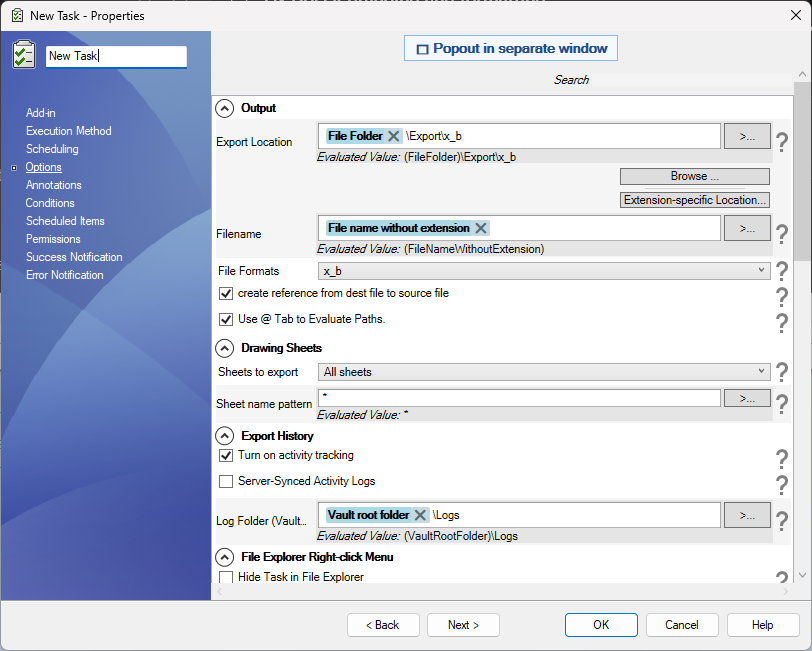
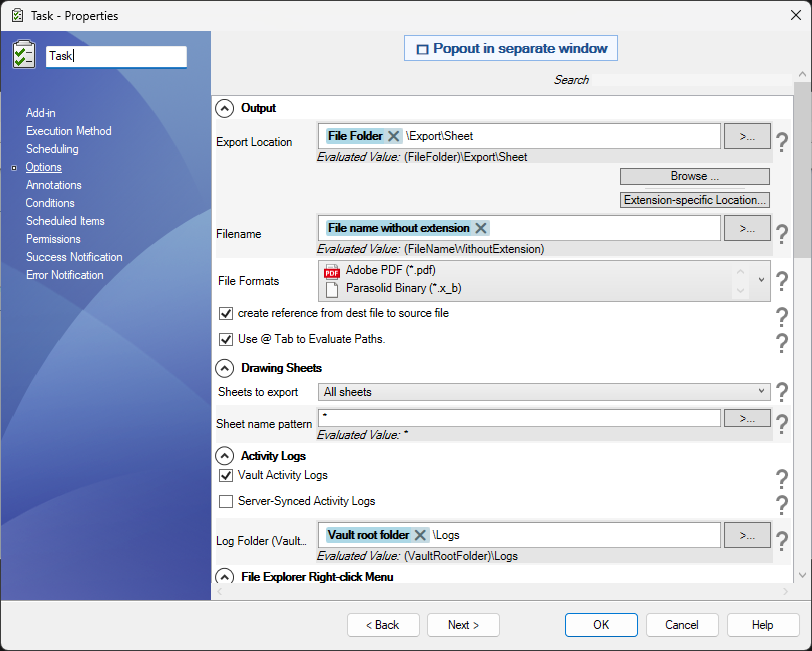
Update supported formats and screenshots

diff --git a/docs/src/pdmpublisher.html b/docs/src/pdmpublisher.html
@@ -118,30 +118,17 @@
 </div>
 <p>PDMPublisher is a SOLIDWORKS PDM task add-in that lets you save your SOLIDWORKS files using advanced filters and provides power capabilities to place custom properties/datacard, BOM quantities on PDFs and merge them.</p>
 <h2 id="supported-extensions">Supported extensions</h2>
-<p>With the PDM task version of PDMPublisher, you can export to the following extensions:</p>
+<p>With the PDM task version of PDMPublisher, you can export to the following formats:</p>
 <ul>
-<li><code>pdf</code>:
-<ul>
-<li>SOLIDWORKS drawings as <code>pdf</code>.</li>
-<li>SOLIDWORKS parts and assemblies as 3D <code>pdf</code></li>
-<li>Office documents (Word and Excel) as <code>pdf</code></li>
+<li>PDF and MBD: <code>pdf</code>, <code>_3dpdf</code></li>
+<li>Drawings: <code>dwg</code>, <code>dxf</code></li>
+<li>eDrawings: <code>eprt</code>, <code>easm</code>, <code>edrw</code></li>
+<li>CAD and interchange: <code>step</code>, <code>igs</code>, <code>stl</code>, <code>x_t</code>, <code>x_b</code>, <code>sat</code>, <code>3dxml</code>, <code>3mf</code>, <code>ifc</code>, <code>u3d</code>, <code>wrl</code>, <code>vda</code>, <code>cgr</code>, <code>hcg</code>, <code>hsf</code></li>
+<li>Web and images: <code>html</code>, <code>xaml</code>, <code>jpg</code>, <code>tif</code>, <code>bmp</code>, <code>ai</code>, <code>psd</code></li>
 </ul>
-</li>
-<li><code>dxf</code> (You can also export the flat pattern of sheet metal parts)</li>
-<li><code>dwg</code></li>
-<li><code>step</code></li>
-<li><code>iges</code></li>
-<li><code>x_t</code></li>
-<li><code>x_b</code></li>
-<li><code>stl</code></li>
-<li><code>u3d</code></li>
-<li><code>eprt</code></li>
-<li><code>edrw</code></li>
-<li><code>easm</code></li>
-<li><code>ifc</code></li>
-<li><code>3mf</code></li>
-<li><code>html</code> (eDrawings Professional required)</li>
-</ul>
+<p>The <code>pdf</code> format exports SOLIDWORKS drawings and converts Microsoft Word and Excel documents to PDF. The <code>_3dpdf</code> selection exports SOLIDWORKS parts and assemblies as 3D PDF.</p>
+<p>Drawing files can be exported as <code>dxf</code>. To create manufacturing-ready flat patterns from sheet metal parts, use <a href="pdmpublisher-options/export-sheet-metal-flat-pattern-dxf.html">Export Sheet Metal Parts to 1:1 Flat Pattern DXF</a>.</p>
+<p>The <code>html</code> format requires eDrawings Professional. See <a href="pdmpublisher-options/file-formats.html">File Formats</a> for format names, source-file behavior, screenshots, and version-specific notes.</p>
 <h2 id="input-files">Input files</h2>
 <p>PDMPublisher can process individual SOLIDWORKS part files (<code>.sldprt</code>), drawing files (<code>.slddrw</code>), and assemblies (<code>.sldasm</code>) along with all their references. This ensures that all necessary components are correctly handled during processing, whether you're converting a single file or an entire assembly structure.</p>
 <ul>

diff --git a/docs/src/introduction.html b/docs/src/introduction.html
@@ -140,31 +140,17 @@
 <li>Best when users need an interactive publishing workflow or when using SOLIDWORKS without PDM Professional</li>
 </ul>
 <h3 id="supported-extensions">Supported extensions</h3>
-<p>With PDMPublisher, you can export to the following extensions:</p>
+<p>With PDMPublisher, you can export to the following formats:</p>
 <ul>
-<li><code>pdf</code>:
-<ul>
-<li>SOLIDWORKS drawings as <code>pdf</code>.</li>
-<li>SOLIDWORKS parts and assemblies as 3D <code>pdf</code></li>
-<li>Office documents (Word and Excel) as <code>pdf</code></li>
+<li>PDF and MBD: <code>pdf</code>, <code>_3dpdf</code></li>
+<li>Drawings: <code>dwg</code>, <code>dxf</code></li>
+<li>eDrawings: <code>eprt</code>, <code>easm</code>, <code>edrw</code></li>
+<li>CAD and interchange: <code>step</code>, <code>igs</code>, <code>stl</code>, <code>x_t</code>, <code>x_b</code>, <code>sat</code>, <code>3dxml</code>, <code>3mf</code>, <code>ifc</code>, <code>u3d</code>, <code>wrl</code>, <code>vda</code>, <code>cgr</code>, <code>hcg</code>, <code>hsf</code></li>
+<li>Web and images: <code>html</code>, <code>xaml</code>, <code>jpg</code>, <code>tif</code>, <code>bmp</code>, <code>ai</code>, <code>psd</code></li>
 </ul>
-</li>
-<li><code>dxf</code> (You can also export the flat pattern of sheet metal parts)</li>
-<li><code>dwg</code></li>
-<li><code>step</code></li>
-<li><code>iges</code></li>
-<li><code>x_t</code></li>
-<li><code>x_b</code></li>
-<li><code>stl</code></li>
-<li><code>u3d</code></li>
-<li><code>eprt</code></li>
-<li><code>edrw</code></li>
-<li><code>easm</code></li>
-<li><code>ifc</code></li>
-<li><code>3mf</code></li>
-<li><code>html</code> (eDrawings Professional required)</li>
-<li><code>bmp</code></li>
-</ul>
+<p>The <code>pdf</code> format exports SOLIDWORKS drawings and converts Microsoft Word and Excel documents to PDF. The <code>_3dpdf</code> selection exports SOLIDWORKS parts and assemblies as 3D PDF.</p>
+<p>Drawing files can be exported as <code>dxf</code>. To create manufacturing-ready flat patterns from sheet metal parts, use <a href="/src/pdmpublisher-options/export-sheet-metal-flat-pattern-dxf.html">Export Sheet Metal Parts to 1:1 Flat Pattern DXF</a>.</p>
+<p>The <code>html</code> format requires eDrawings Professional. See <a href="/src/pdmpublisher-options/file-formats.html">File Formats</a> for format names, source-file behavior, screenshots, and version-specific notes.</p>
 <h3 id="missing-file-format">Missing file format?</h3>
 <p>If there is a missing file format that SOLIDWORKS supports, <a href="https://bluebyte.biz/contact">please reach out to us and our team will add it</a>.</p>
 <div class="TIP">

diff --git a/src/pdmpublisher.md b/src/pdmpublisher.md
@@ -1,7 +1,7 @@
 ---
 title: PDMPublisher | SOLIDWORKS PDM
 description: Learn about PDMPublisher for SOLIDWORKS PDM Professional, including supported export formats, input files, requirements, installation, and licensing.
-ms.date: 06/19/2026
+ms.date: 08/10/2026
 ms.topic: overview
 ---
 
@@ -19,26 +19,19 @@ Thank you for choosing [PDMPublisher](https://bluebyte.biz/product/pdmpublisher/
 PDMPublisher is a SOLIDWORKS PDM task add-in that lets you save your SOLIDWORKS files using advanced filters and provides power capabilities to place custom properties/datacard, BOM quantities on PDFs and merge them.  
 
 ## Supported extensions
-With the PDM task version of PDMPublisher, you can export to the following extensions:
+With the PDM task version of PDMPublisher, you can export to the following formats:
 
-- `pdf`: 
-  - SOLIDWORKS drawings as `pdf`.
-  - SOLIDWORKS parts and assemblies as 3D `pdf`
-  - Office documents (Word and Excel) as `pdf`
-- `dxf` (You can also export the flat pattern of sheet metal parts)
-- `dwg`
-- `step`
-- `iges`
-- `x_t`
-- `x_b`
-- `stl`
-- `u3d`
-- `eprt`
-- `edrw`
-- `easm`
-- `ifc`
-- `3mf`
-- `html` (eDrawings Professional required)
+- PDF and MBD: `pdf`, `_3dpdf`
+- Drawings: `dwg`, `dxf`
+- eDrawings: `eprt`, `easm`, `edrw`
+- CAD and interchange: `step`, `igs`, `stl`, `x_t`, `x_b`, `sat`, `3dxml`, `3mf`, `ifc`, `u3d`, `wrl`, `vda`, `cgr`, `hcg`, `hsf`
+- Web and images: `html`, `xaml`, `jpg`, `tif`, `bmp`, `ai`, `psd`
+
+The `pdf` format exports SOLIDWORKS drawings and converts Microsoft Word and Excel documents to PDF. The `_3dpdf` selection exports SOLIDWORKS parts and assemblies as 3D PDF.
+
+Drawing files can be exported as `dxf`. To create manufacturing-ready flat patterns from sheet metal parts, use [Export Sheet Metal Parts to 1:1 Flat Pattern DXF](pdmpublisher-options/export-sheet-metal-flat-pattern-dxf.md).
+
+The `html` format requires eDrawings Professional. See [File Formats](pdmpublisher-options/file-formats.md) for format names, source-file behavior, screenshots, and version-specific notes.
 
 ## Input files
 PDMPublisher can process individual SOLIDWORKS part files (`.sldprt`), drawing files (`.slddrw`), and assemblies (`.sldasm`) along with all their references. This ensures that all necessary components are correctly handled during processing, whether you're converting a single file or an entire assembly structure.  

diff --git a/src/introduction.md b/src/introduction.md
@@ -1,7 +1,7 @@
 ---
 title: Getting Started | Blue Byte Systems Help Center | SOLIDWORKS PDM
 description: Welcome to Blue Byte Systems, a provider of solutions for SOLIDWORKS PDM automation, publishing, migration, data quality, and task optimization.
-ms.date: 06/19/2026
+ms.date: 08/10/2026
 ms.topic: conceptual
 ---
 
@@ -46,27 +46,19 @@ PDMPublisher is one product with one code base, available in two versions.
 
 
 ### Supported extensions 
-With PDMPublisher, you can export to the following extensions:
+With PDMPublisher, you can export to the following formats:
 
-- `pdf`: 
-  - SOLIDWORKS drawings as `pdf`.
-  - SOLIDWORKS parts and assemblies as 3D `pdf`
-  - Office documents (Word and Excel) as `pdf`
-- `dxf` (You can also export the flat pattern of sheet metal parts)
-- `dwg`
-- `step`
-- `iges`
-- `x_t`
-- `x_b`
-- `stl`
-- `u3d`
-- `eprt`
-- `edrw`
-- `easm`
-- `ifc`
-- `3mf`
-- `html` (eDrawings Professional required)
-- `bmp`
+- PDF and MBD: `pdf`, `_3dpdf`
+- Drawings: `dwg`, `dxf`
+- eDrawings: `eprt`, `easm`, `edrw`
+- CAD and interchange: `step`, `igs`, `stl`, `x_t`, `x_b`, `sat`, `3dxml`, `3mf`, `ifc`, `u3d`, `wrl`, `vda`, `cgr`, `hcg`, `hsf`
+- Web and images: `html`, `xaml`, `jpg`, `tif`, `bmp`, `ai`, `psd`
+
+The `pdf` format exports SOLIDWORKS drawings and converts Microsoft Word and Excel documents to PDF. The `_3dpdf` selection exports SOLIDWORKS parts and assemblies as 3D PDF.
+
+Drawing files can be exported as `dxf`. To create manufacturing-ready flat patterns from sheet metal parts, use [Export Sheet Metal Parts to 1:1 Flat Pattern DXF](/src/pdmpublisher-options/export-sheet-metal-flat-pattern-dxf.html).
+
+The `html` format requires eDrawings Professional. See [File Formats](/src/pdmpublisher-options/file-formats.html) for format names, source-file behavior, screenshots, and version-specific notes.
 
 ### Missing file format? 
 
